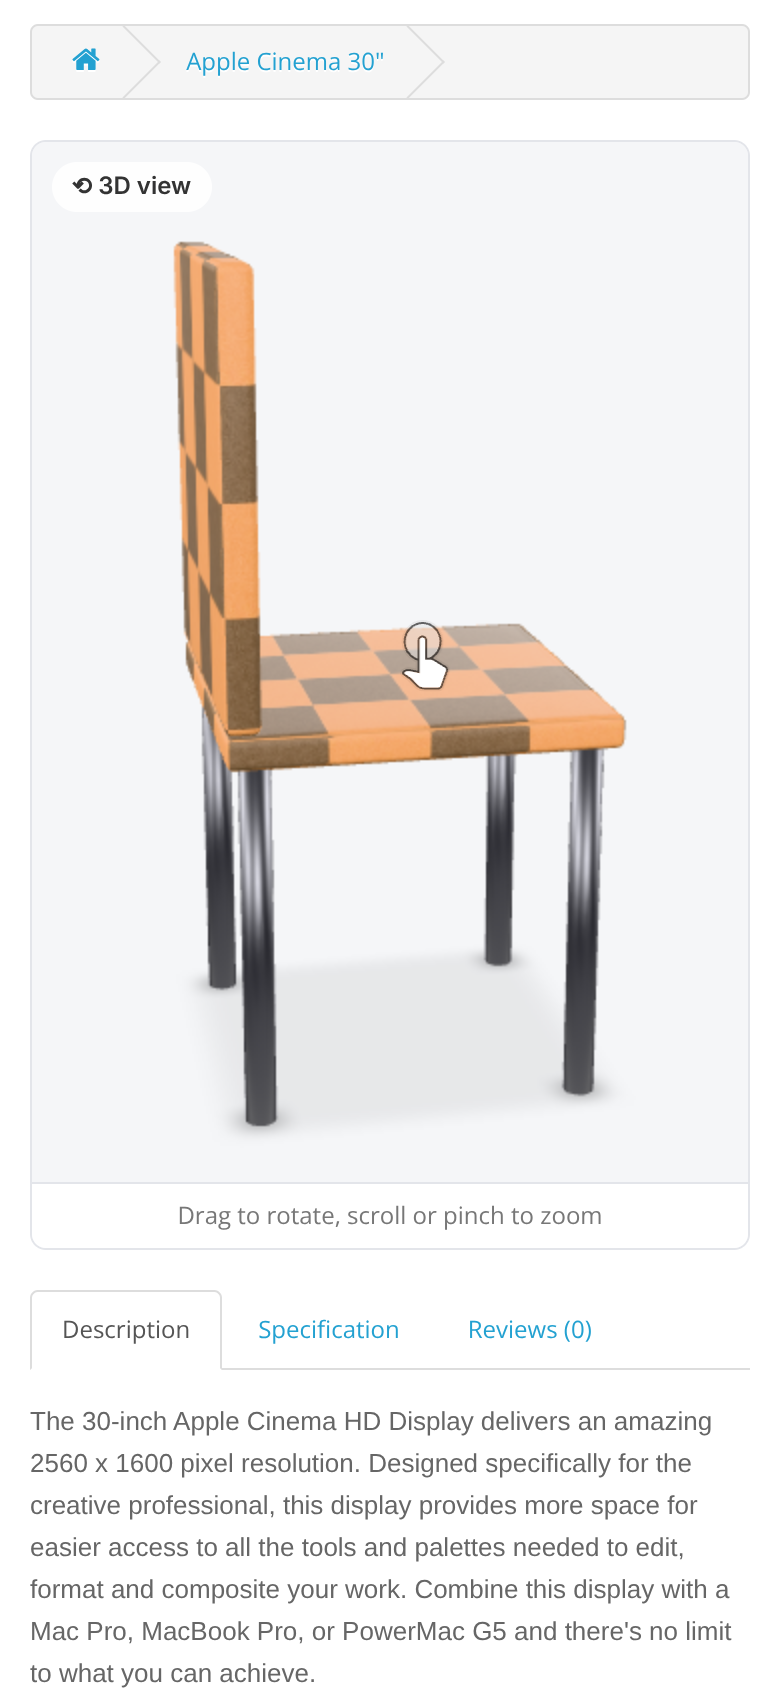
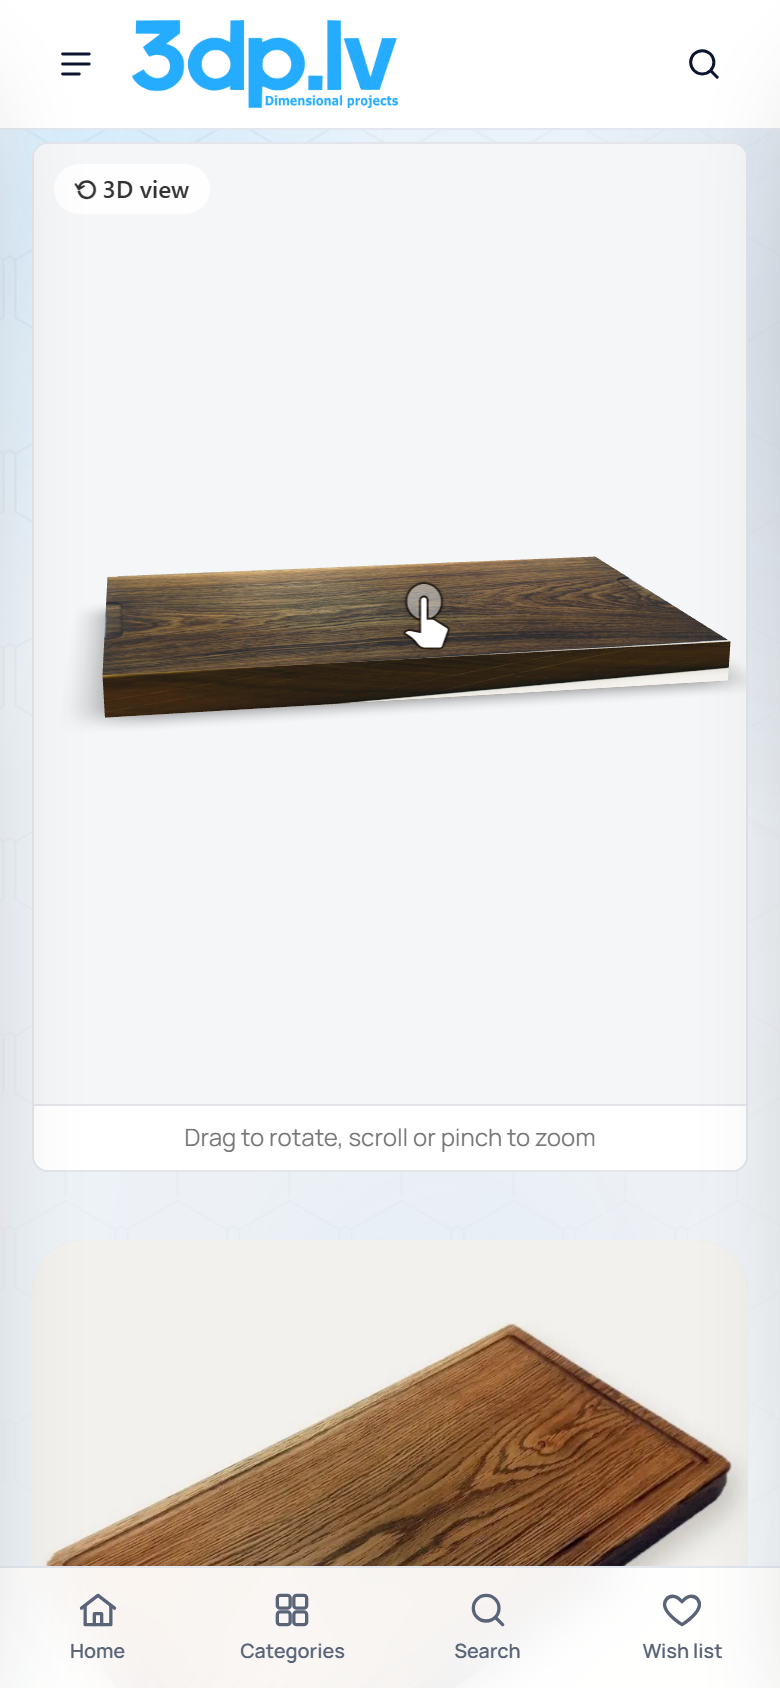
3D viewer: marketplace ready (price $39, licence filled, live 3dp.lv demo + screenshots), 3D models from product photos tools

diff --git a/web-3d-pipeline/opencart-3d-viewer/tools3d/make_flat.py b/web-3d-pipeline/opencart-3d-viewer/tools3d/make_flat.py
@@ -1,0 +1,110 @@
+"""3dp.lv: plakana produkta .glb no paša produkta foto (virspuse no augšas, perspektīvi iztaisnota).
+Lietošana: python make_flat.py spec.json  — katram ierakstam: src, quad (TL,TR,BR,BL px), L,W,H (m), r (stūra rādiuss, daļa no īsākās malas), ring (gredzena ārējais diametrs m vai 0), out"""
+import sys, io, json, struct, math, numpy as np
+from PIL import Image, ImageStat
+
+
+def fixwind(P,N,I):
+    P=np.array(P); N=np.array(N); out=[]
+    for k in range(0,len(I),3):
+        a,b,c=I[k:k+3]; n=np.cross(P[b]-P[a],P[c]-P[a])
+        out.extend([a,b,c] if np.dot(n,N[a]+N[b]+N[c])>=0 else [a,c,b])
+    return out
+
+def glb(prims, images, out, name):
+    bins=[]; views=[]; acc=[]; off=0
+    def add(data, target=None):
+        nonlocal off
+        pad=(4-len(data)%4)%4; v={'buffer':0,'byteOffset':off,'byteLength':len(data)}
+        if target: v['target']=target
+        views.append(v); bins.append(data+b'\0'*pad); off+=len(data)+pad; return len(views)-1
+    gprims=[]; mats=[]; texs=[]; imgs=[]
+    for img in images:
+        imgs.append({'bufferView':add(img),'mimeType':'image/jpeg'}); texs.append({'source':len(imgs)-1,'sampler':0})
+    for p in prims:
+        I=np.array(fixwind(p['P'],p['N'],p['I']),np.uint16); P=np.array(p['P'],np.float32); N=np.array(p['N'],np.float32)
+        a={'POSITION':len(acc)}; acc.append({'bufferView':add(P.tobytes(),34962),'componentType':5126,'count':len(P),'type':'VEC3','min':P.min(0).tolist(),'max':P.max(0).tolist()})
+        a['NORMAL']=len(acc); acc.append({'bufferView':add(N.tobytes(),34962),'componentType':5126,'count':len(N),'type':'VEC3'})
+        if 'T' in p:
+            T=np.array(p['T'],np.float32); a['TEXCOORD_0']=len(acc); acc.append({'bufferView':add(T.tobytes(),34962),'componentType':5126,'count':len(T),'type':'VEC2'})
+        ii=len(acc); acc.append({'bufferView':add(I.tobytes(),34963),'componentType':5123,'count':len(I),'type':'SCALAR'})
+        mats.append(p['mat']); gprims.append({'attributes':a,'indices':ii,'material':len(mats)-1})
+    bin_=b''.join(bins)
+    g={'asset':{'version':'2.0','generator':'3dp.lv make_flat.py (no produkta foto)'},'scene':0,'scenes':[{'nodes':[0]}],
+       'nodes':[{'mesh':0,'name':name}],'meshes':[{'primitives':gprims}],'materials':mats,
+       'samplers':[{'magFilter':9729,'minFilter':9987,'wrapS':33071,'wrapT':33071}],'accessors':acc,'bufferViews':views,'buffers':[{'byteLength':len(bin_)}]}
+    if texs: g['textures']=texs; g['images']=imgs
+    js=json.dumps(g,separators=(',',':')).encode(); js+=b' '*((4-len(js)%4)%4)
+    data=struct.pack('<III',0x46546C67,2,12+8+len(js)+8+len(bin_))+struct.pack('<II',len(js),0x4E4F534A)+js+struct.pack('<II',len(bin_),0x004E4942)+bin_
+    open(out,'wb').write(data); return len(data)
+
+def outline(L,W,r,seg=10):
+    pts=[]
+    for cx,cy,a0 in ((L/2-r,W/2-r,0),(-L/2+r,W/2-r,90),(-L/2+r,-W/2+r,180),(L/2-r,-W/2+r,270)):
+        for k in range(seg+1):
+            a=math.radians(a0+90*k/seg); pts.append((cx+r*math.cos(a),cy+r*math.sin(a)))
+    return pts
+
+def slab(L,W,H,r):
+    pts=outline(L,W,r); P=[];N=[];T=[];I=[]
+    # top (y=H): model x = photo x (right), model z = photo y (down)
+    for y,ny,flip in ((H,1,False),(0,-1,True)):
+        b=len(P); P.append((0,y,0)); N.append((0,ny,0)); T.append((0.5,0.5))
+        for (x,z) in pts: P.append((x,y,-z)); N.append((0,ny,0)); T.append((x/L+0.5, z*-1/W+0.5 if False else (-z)/W+0.5))
+        n=len(pts)
+        for k in range(n):
+            a,c=b+1+k,b+1+(k+1)%n
+            I.extend([b,c,a] if not flip else [b,a,c])
+    PT,NT,TT,IT=P,N,T,I; P=[];N=[];T=[];I=[]
+    n=len(pts)
+    for k in range(n):
+        (x0,z0),(x1,z1)=pts[k],pts[(k+1)%n]
+        nx,nz=(z1-z0),-(x1-x0); l=math.hypot(nx,nz); nx/=l; nz/=l
+        b=len(P)
+        for (x,z) in ((x0,z0),(x1,z1)):
+            for y in (H,0):
+                P.append((x,y,-z)); N.append((nx,0,-nz)); T.append((x/L+0.5,(-z)/W+0.5))
+        I.extend([b,b+1,b+3,b,b+3,b+2])
+    return (PT,NT,TT,IT),(P,N,I)
+
+def torus(R,rr,cx,cy,cz,seg=36,sides=12):
+    P=[];N=[];I=[]
+    for i in range(seg):
+        u=2*math.pi*i/seg
+        for j in range(sides):
+            v=2*math.pi*j/sides
+            nx,ny,nz=math.cos(u)*math.cos(v),math.sin(v),math.sin(u)*math.cos(v)
+            # ring lies in the XZ plane (flat on the table)
+            P.append((cx+(R+rr*math.cos(v))*math.cos(u), cy+rr*math.sin(v), cz+(R+rr*math.cos(v))*math.sin(u))); N.append((nx,ny,nz))
+    for i in range(seg):
+        for j in range(sides):
+            a=i*sides+j; b=((i+1)%seg)*sides+j; c=((i+1)%seg)*sides+(j+1)%sides; d=i*sides+(j+1)%sides
+            I.extend([a,d,c,a,c,b])
+    return P,N,I
+
+for s in json.load(open(sys.argv[1],encoding='utf-8')):
+    L,W,H,r=s['L'],s['W'],s['H'],s['r']*min(s['L'],s['W'])
+    im=Image.open(s['src']).convert('RGB')
+    q=s['quad']; sc=s.get('scale',1)
+    q=[(x/sc,y/sc) for x,y in q]
+    tw=1024; th=int(round(tw*W/L)) if L>=W else 1024
+    if W>L: tw=int(round(1024*L/W))
+    # PIL QUAD: data = TL, BL, BR, TR corners in source
+    top=im.transform((tw,th),Image.QUAD,(q[0][0],q[0][1],q[3][0],q[3][1],q[2][0],q[2][1],q[1][0],q[1][1]),Image.BICUBIC)
+    buf=io.BytesIO(); top.save(buf,'JPEG',quality=86); top.save(s['out'].replace('.glb','-top.jpg'),quality=86)
+    edge=tuple(int(c*0.82) for c in ImageStat.Stat(top.crop((0,0,tw,max(4,th//40)))).median)
+    (P,N,T,I),(SP,SN,SI)=slab(L,W,H,r)
+    rough=s.get('rough',0.8)
+    band=top.crop((int(tw*.06),int(th*.06),int(tw*.94),int(th*.94)))
+    inner=top.crop((int(tw*.14),int(th*.14),int(tw*.86),int(th*.86)))
+    m=Image.new('L',band.size,255); m.paste(0,(inner.size[0]//1 and int(tw*.08),int(th*.08),int(tw*.08)+inner.size[0],int(th*.08)+inner.size[1]))
+    med=ImageStat.Stat(band,mask=m).median
+    sc_=s.get('edge',0.85); col=[min(1,(c/255)**2.2*sc_) for c in med]+[1]
+    prims=[{'P':P,'N':N,'T':T,'I':I,'mat':{'name':'surface','pbrMetallicRoughness':{'baseColorTexture':{'index':0},'metallicFactor':s.get('metal',0),'roughnessFactor':rough}}},
+           {'P':SP,'N':SN,'I':SI,'mat':{'name':'edge','pbrMetallicRoughness':{'baseColorFactor':col,'metallicFactor':s.get('metal',0),'roughnessFactor':rough}}}]
+    if s.get('ring'):
+        R=s['ring']/2; rr=R*0.09
+        tp,tn,ti=torus(R-rr,rr,0,rr,-(W/2)-R*0.75)
+        prims.append({'P':tp,'N':tn,'I':ti,'mat':{'name':'steel ring','pbrMetallicRoughness':{'baseColorFactor':[0.78,0.79,0.8,1],'metallicFactor':1,'roughnessFactor':0.3}}})
+    size=glb(prims,[buf.getvalue()],s['out'],s['name'])
+    print(s['out'].split('/')[-1],size,'B', f'{L*100:.1f}x{W*100:.1f}x{H*100:.2f} cm')

diff --git a/web-3d-pipeline/opencart-3d-viewer/tools3d/make_board.py b/web-3d-pipeline/opencart-3d-viewer/tools3d/make_board.py
@@ -1,0 +1,49 @@
+import sys, io, json, struct, numpy as np
+from PIL import Image
+S=sys.argv[1]; out=sys.argv[2]
+L,W,H=0.30,0.20,0.02   # produkta 79 izmēri (30 x 20 x 2 cm)
+top=Image.open(S+'/ozola-delis-no-augsas.jpg').convert('RGB').crop((68,214,1476,919)).resize((1024,683),Image.LANCZOS)
+side=Image.open(S+'/ozola-delis-sani.jpg').convert('RGB').crop((553,538,1014,814)).resize((1024,128),Image.LANCZOS)
+atlas=Image.new('RGB',(1024,1024),(120,90,60)); atlas.paste(top,(0,0)); atlas.paste(side,(0,700))
+buf=io.BytesIO(); atlas.save(buf,'JPEG',quality=85); img=buf.getvalue()
+atlas.save(S+'/atlas.jpg')
+tv=(0,683/1024); sv=(700/1024,828/1024)
+x0,x1,y0,y1,z0,z1=-L/2,L/2,0,H,-W/2,W/2
+P=[];N=[];T=[];I=[]
+def quad(c,n,uv):
+    b=len(P); P.extend(c); N.extend([n]*4); T.extend(uv); I.extend([b,b+1,b+2,b,b+2,b+3])
+# top (y1): looking down, x right, z toward viewer = image down
+quad([(x0,y1,z0),(x0,y1,z1),(x1,y1,z1),(x1,y1,z0)],(0,1,0),[(0,tv[0]),(0,tv[1]),(1,tv[1]),(1,tv[0])])
+# bottom (y0)
+quad([(x0,y0,z0),(x1,y0,z0),(x1,y0,z1),(x0,y0,z1)],(0,-1,0),[(0,tv[0]),(1,tv[0]),(1,tv[1]),(0,tv[1])])
+S0,S1=sv
+# front z1
+quad([(x0,y1,z1),(x0,y0,z1),(x1,y0,z1),(x1,y1,z1)],(0,0,1),[(0,S0),(0,S1),(1,S1),(1,S0)])
+# back z0
+quad([(x1,y1,z0),(x1,y0,z0),(x0,y0,z0),(x0,y1,z0)],(0,0,-1),[(0,S0),(0,S1),(1,S1),(1,S0)])
+# right x1
+quad([(x1,y1,z1),(x1,y0,z1),(x1,y0,z0),(x1,y1,z0)],(1,0,0),[(0,S0),(0,S1),(.66,S1),(.66,S0)])
+# left x0
+quad([(x0,y1,z0),(x0,y0,z0),(x0,y0,z1),(x0,y1,z1)],(-1,0,0),[(0,S0),(0,S1),(.66,S1),(.66,S0)])
+p=np.array(P,np.float32); n=np.array(N,np.float32); t=np.array(T,np.float32); i=np.array(I,np.uint16)
+def pad(b,c=b'\0'): return b+c*((4-len(b)%4)%4)
+chunks=[]; views=[]; off=0
+for data,target in ((i.tobytes(),34963),(p.tobytes(),34962),(n.tobytes(),34962),(t.tobytes(),34962),(img,None)):
+    d=pad(data); v={'buffer':0,'byteOffset':off,'byteLength':len(data)}
+    if target: v['target']=target
+    views.append(v); chunks.append(d); off+=len(d)
+bin_=b''.join(chunks)
+g={'asset':{'version':'2.0','generator':'3dp.lv board from product photos'},
+ 'scene':0,'scenes':[{'nodes':[0]}],'nodes':[{'mesh':0,'name':'Oak cutting board'}],
+ 'meshes':[{'primitives':[{'attributes':{'POSITION':1,'NORMAL':2,'TEXCOORD_0':3},'indices':0,'material':0}]}],
+ 'materials':[{'name':'oak','pbrMetallicRoughness':{'baseColorTexture':{'index':0},'metallicFactor':0,'roughnessFactor':0.75}}],
+ 'textures':[{'source':0,'sampler':0}],'samplers':[{'magFilter':9729,'minFilter':9987,'wrapS':33071,'wrapT':33071}],
+ 'images':[{'bufferView':4,'mimeType':'image/jpeg'}],
+ 'accessors':[{'bufferView':0,'componentType':5123,'count':len(i),'type':'SCALAR'},
+  {'bufferView':1,'componentType':5126,'count':len(p),'type':'VEC3','min':p.min(0).tolist(),'max':p.max(0).tolist()},
+  {'bufferView':2,'componentType':5126,'count':len(n),'type':'VEC3'},
+  {'bufferView':3,'componentType':5126,'count':len(t),'type':'VEC2'}],
+ 'bufferViews':views,'buffers':[{'byteLength':len(bin_)}]}
+js=pad(json.dumps(g,separators=(',',':')).encode(),b' ')
+glb=struct.pack('<III',0x46546C67,2,12+8+len(js)+8+len(bin_))+struct.pack('<II',len(js),0x4E4F534A)+js+struct.pack('<II',len(bin_),0x004E4942)+bin_
+open(out,'wb').write(glb); print(out,len(glb),'baiti')

diff --git a/web-3d-pipeline/opencart-3d-viewer/marketplace/LISTING.md b/web-3d-pipeline/opencart-3d-viewer/marketplace/LISTING.md
@@ -19,7 +19,7 @@ OpenCart 3.0.3.8, 3.0.4.0, 3.0.4.1, 3.0.5.0, 3.0.5.1
 > To be strict, list only 3.0.3.8, 3.0.4.1 and 3.0.5.x.
 
 ## Price
-[your price] — one store / domain, [12] months updates, [6] months support.
+$39 — one store / domain, 12 months updates, 12 months support.
 
 ## Short description (up to ~160 characters)
 Show rotatable 3D product models with augmented reality on your product pages. Upload a .glb in the
@@ -83,23 +83,23 @@ A full user guide (USER_GUIDE.md) is included in the download.
 ### Not included
 - 3D models themselves. You create or buy them (e.g. export from Blender as glTF Binary).
 - Quick-view pop-ups: the viewer is shown on the full product page.
-- OpenCart 4.x (separate version planned: [yes/no]).
+- OpenCart 4.x (not supported in this version).
 
 ## Tags
 3d, 3d model, glb, gltf, ar, augmented reality, model-viewer, product viewer, 360, product gallery,
 webxr, usdz, opencart 3
 
 ## Demo
-- Storefront demo: [link — e.g. the published demo page or your own demo store]
-- Admin demo: [demo store admin with a read-only demo user, if you provide one]
+- Storefront demo (live shop, 3dp.lv theme): https://3dp.lv/oak-cutting-board-with-engraving
+- Admin demo: not provided (screenshots 02 and 03 show the admin).
 
 ## Screenshots (in marketplace/screenshots/)
-1. `01-storefront-desktop.png` — 3D viewer in place of the gallery (default theme)
+1. `01-storefront-desktop.png` — 3D viewer above the gallery on a live shop (3dp.lv, custom theme)
 2. `02-settings.png` — settings with system check
 3. `03-product-tab.png` — "3D model" tab with upload and preview
-4. `04-storefront-mobile.png` — phone view with AR button
+4. `04-storefront-mobile.png` — phone view on the live shop (AR button appears on AR-capable phones)
 5. `05-any-theme.png` — the same module in different themes (desktop and phone)
 
 ## Support
-[support e-mail / contact form URL] — answers within [2] working days. Include your OpenCart version, theme
+info@3dp.lv — answers within 2 working days (Latvia, EET). Include your OpenCart version, theme
 name and a screenshot of the System check panel.

diff --git a/web-3d-pipeline/PROJECT.md b/web-3d-pipeline/PROJECT.md
@@ -100,6 +100,8 @@ Pilns kopsavilkums nākamajam Claude Code čatam. Datums: 2026-11-06.
 
 ### 3.2 3D modeļi īstiem produktiem
 
+- **06.11 izdarīts:** 3dp.lv produktiem 79 (dēlis), 78 (ozola paliktnis), 335 (finiera paliktnis), 333 (alumīnija žetons), 332 (ādas piekariņš ar gredzenu) — modeļi no veikala foto (virspuse perspektīvi iztaisnota, izmēri no produkta datiem), dzīvajā, Uldis apstiprināja. Ģeneratori: `opencart-3d-viewer/tools3d/make_flat.py` (spec.json) un `make_board.py`. Atlikuši: 77 (tikai zīmējums), 334 (foto rokā), 336 (pagriezts foto) — vajag foto no augšas.
+
 - Vajag īstus produktu modeļus (.fbx/.glb). Testa krēslu uz dzīvā veikala nelikt.
 - Sagatavošana:
   ```
@@ -107,6 +109,8 @@ Pilns kopsavilkums nākamajam Claude Code čatam. Datums: 2026-11-06.
   ```
 
 ### 3.3 Pirms pārdošanas Marketplace
+
+- **06.11 izdarīts:** cena **$39** (Ulda izvēle; konkurenti $25 bez AR, $99 ar AR); LICENSE aizpildīts (3DP SIA, 12 mēn. atjauninājumi + atbalsts info@3dp.lv, 14 d. atmaksa, Latvijas likums) — vēl jurista pārbaude; LISTING: demo https://3dp.lv/oak-cutting-board-with-engraving, atbalsts 2 darba d.; ekrāni 01 un 04 no dzīvā 3dp.lv. **Atliek tikai Uldim:** jurista pārbaude, OpenCart pārdevēja konts, augšupielāde marketplace.
 
 1. `LICENSE.txt`: uzņēmums, kontakti, atbalsta/atjauninājumu termiņi, atmaksa; jurista pārbaude.
 2. Cena: nav noteikta, vajag konkurentu salīdzinājumu.
